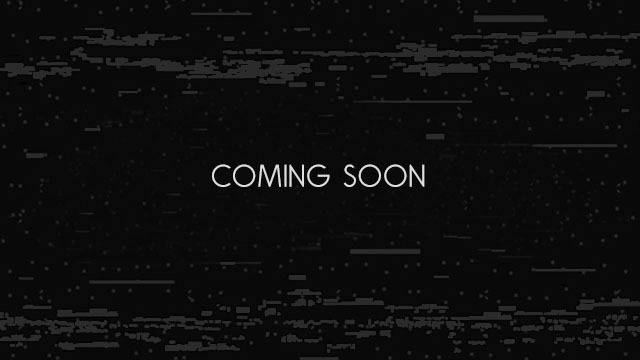
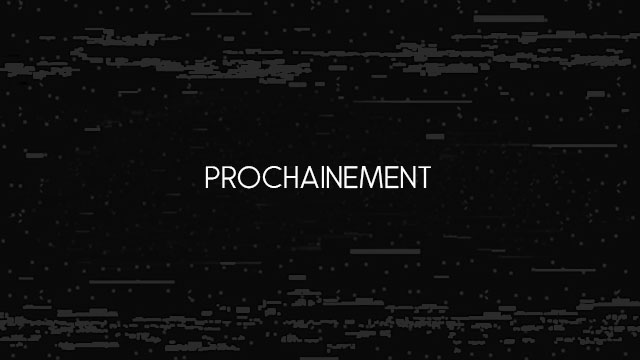
changement police + nosignal 19/08

Changed region(s): [[0.3125, 0.4583, 0.6875, 0.55]]

diff --git a/index.html b/index.html
@@ -37,14 +37,14 @@
         
       <div class="description">
           
-          <h3>QUI SUIS-JE ?</h3>
+          <h3>Qui suis-je ?</h3>
           
           <p class="paragraphe">
               Passionné de création, je me forme et travaille depuis plusieurs années autour de <span class="mef">l’audiovisuel</span> et du <span class="mef">cinéma</span>, et sur l’ensemble des techniques de <span class="mef">l’image</span> et du <span class="mef">son</span>. Je suis donc capable de collaborer sur de nombreux aspects des projets sur lesquels je travaille : design graphique, animation… jusqu’à la composition musicale. Ce site web a été réalisé par mes soins et tient lieu de galerie numérique pour mes différents projets.
           </p>
           
           <p class="paragraphe">
-              Je m'attache dans mes films à retranscrire la <span class="mef">vérité</span> la plus <span class="mef">simple</span> et la plus <span class="mef">naturelle</span> possible, relativement au sujet traité. Pour cela, je considère comme indispensable de nouer un <span class="mef">dialogue</span> de <span class="mef">fond</span> avec les individus concernés par le projet. La plus belle des images n'est pas forcément pour moi la plus compliquée ou la plus léchée, tout dépend du <span class="mef">regard</span> que l'on porte sur le décor...
+              Je m'attache dans mes films à retranscrire la <span class="mef">vérité</span> la plus <span class="mef">simple</span> et la plus <span class="mef">naturelle</span> possible, relativement au sujet traité. Pour cela, je considère comme indispensable de nouer un <span class="mef">dialogue</span> de <span class="mef">fond</span> avec les individus concernés par le projet. La plus belle des images n'est pas forcément pour moi la plus compliquée ou la plus léchée, tout dépend du <span class="mef">regard</span> que l'on porte sur le décor.
           </p>
           
           <p class="paragraphe">
@@ -59,11 +59,22 @@
     <div class="corps">
         
         <ul id="contentMenu">
-            <li class="current categorie" id="cat0" onclick="myFunction(0)"><a class="catlink">Films de commande</a></li>
+            
+            <li class="current categorie" id="cat0" onclick="myFunction(0)">    <a class="catlink">Films de commande</a>
+            </li>
+            
             <li class="catlink" id="menuspacing">&nbsp&#160|&nbsp&#160</li>
-            <li class="categorie" id="cat1" onclick="myFunction(1)"><a class="catlink" >Travaux personnels</a></li>
+            
+            <li class="categorie" id="cat1" onclick="myFunction(1)">
+                <a class="catlink" >Travaux personnels</a>
+            </li>
+            
             <li class="catlink" id="menuspacing2">&nbsp&#160|&nbsp&#160</li>
-            <li class="categorie" id="cat2" onclick="myFunction(2)"><a class="catlink">Autres créations</a></li>
+            
+            <li class="categorie" id="cat2" onclick="myFunction(2)">
+                <a class="catlink">Autres creations</a>
+            </li>
+            
         </ul>
       
       <div class="slider">
@@ -161,7 +172,7 @@
 -->
               
             <div onclick="popup('popup10')" class="item item10">
-                <img src="img/evancap.jpg" alt="" class="cap">
+                <img src="img/evangile/evan1.jpg" alt="" class="cap">
                 <div class="titre">Evangile</div>
                 <div class="overlay">
                     <div class="text">[photographie] Matières, textures et perspectives au sein de l'ancien échangeur ferroviaire de l'évangile, à Paris</div>
@@ -169,7 +180,7 @@
             </div>
               
             <a href="https://flic.kr/s/aHsmPEFMfy" target="_blank" class="item item11">
-                <img src="img/namicap.jpg" alt="" class="cap">
+                <img src="img/namibie/nami10.jpg" alt="" class="cap">
                 <div class="titre">Namibia</div>
                 <div class="overlay">
                     <div class="text">[photographie] Un carnet de voyage photographique sur les routes désertiques de Namibie</div>
@@ -177,7 +188,7 @@
             </a>
               
             <a href="https://flic.kr/s/aHsmPEQibW" target="_blank" class="item item12">
-                <img src="img/humanboxescap.jpg" alt="" class="cap">
+                <img src="img/humanboxes/huma2.jpg" alt="" class="cap">
                 <div class="titre">Human Boxes</div>
                 <div class="overlay">
                     <div class="text">[photographie] des reliefs urbain capturés en parcourant la ville, en long et en large, de haut en bas</div>
@@ -470,7 +481,7 @@
         
     <div class="formation">
         
-        <h3>MA FORMATION</h3>
+        <h3>Ma formation</h3>
         
         <p>Quatre ans de formation initiale m’ont amené à comprendre l’audiovisuel sous plusieurs angles. Je suis passé par un <span class="mef">DUT multimédia et web</span> en spécialité audiovisuel et communication, qui m’a offert une approche technique des médias numériques au travers d’une <span class="mef">pédagogie en projets</span>. Par la suite, j’ai suivi une licence cinéma et audiovisuel qui m’a permis d’explorer l’aspect culturel, historique et esthétique de ces médias, et de comprendre la valeur des <span class="mef">choix de mise en scène</span>. A ceci s’ajoutent des formations courtes de réalisation de films et d’effets spéciaux au canada.</p>
     
@@ -484,7 +495,7 @@
         
         <div class="formation">
       
-        <h3>CONTACT</h3>
+        <h3>Contact</h3>
 <!--                <span>Vous avez un projet pour votre entreprise ? un évènement à immortaliser ? une idée de film révolutionnaire ?</span>-->
                 <p>Adresse email : arthleray@gmail.com</p>
                 <a href="ArthurLerayCV2020.pdf" class="downloadcv" download>Téléchargez mon CV</a>

diff --git a/styles.css b/styles.css
@@ -61,12 +61,17 @@
 
 @font-face {
     font-family: "roboto";
-    src: url("RobotoSlab-Regular.ttf");
+    src: url("fonts/RobotoSlab-Regular.ttf");
 }
 
 @font-face {
     font-family: "nocturno";
     src: url("fonts/NocturnobyCCBY.ttf");
+}
+
+@font-face {
+    font-family: "canvas";
+    src: url("fonts/MADE Canvas Black.otf");
 }
 
 /* GENERAL */
@@ -196,11 +201,12 @@ a {
 }
 
 h3 {
-    font-size: 30px;
+    font-size: 40px;
     margin-left: 50px;
-    font-family: "roboto";
+    font-family: "canvas";
     color: #CACACA;
-    letter-spacing: 0.4rem;
+    letter-spacing: 0.3rem;
+/*    text-transform: uppercase;*/
     -webkit-transform: scale(1,1.1);
         -ms-transform: scale(1,1.1);
             transform: scale(1,1.1);
@@ -224,8 +230,11 @@ h3 {
     text-align: center;
     text-decoration: none;
     color: #CACACA;
-    font-family: "intellecta";
-    font-size: 30px;
+    font-family: "canvas";
+    font-size: 24px;
+    letter-spacing: 0.1rem;
+/*    text-transform: uppercase;*/
+    transform: scale(1,1.1);
 }
 
 #contentMenu > * {
